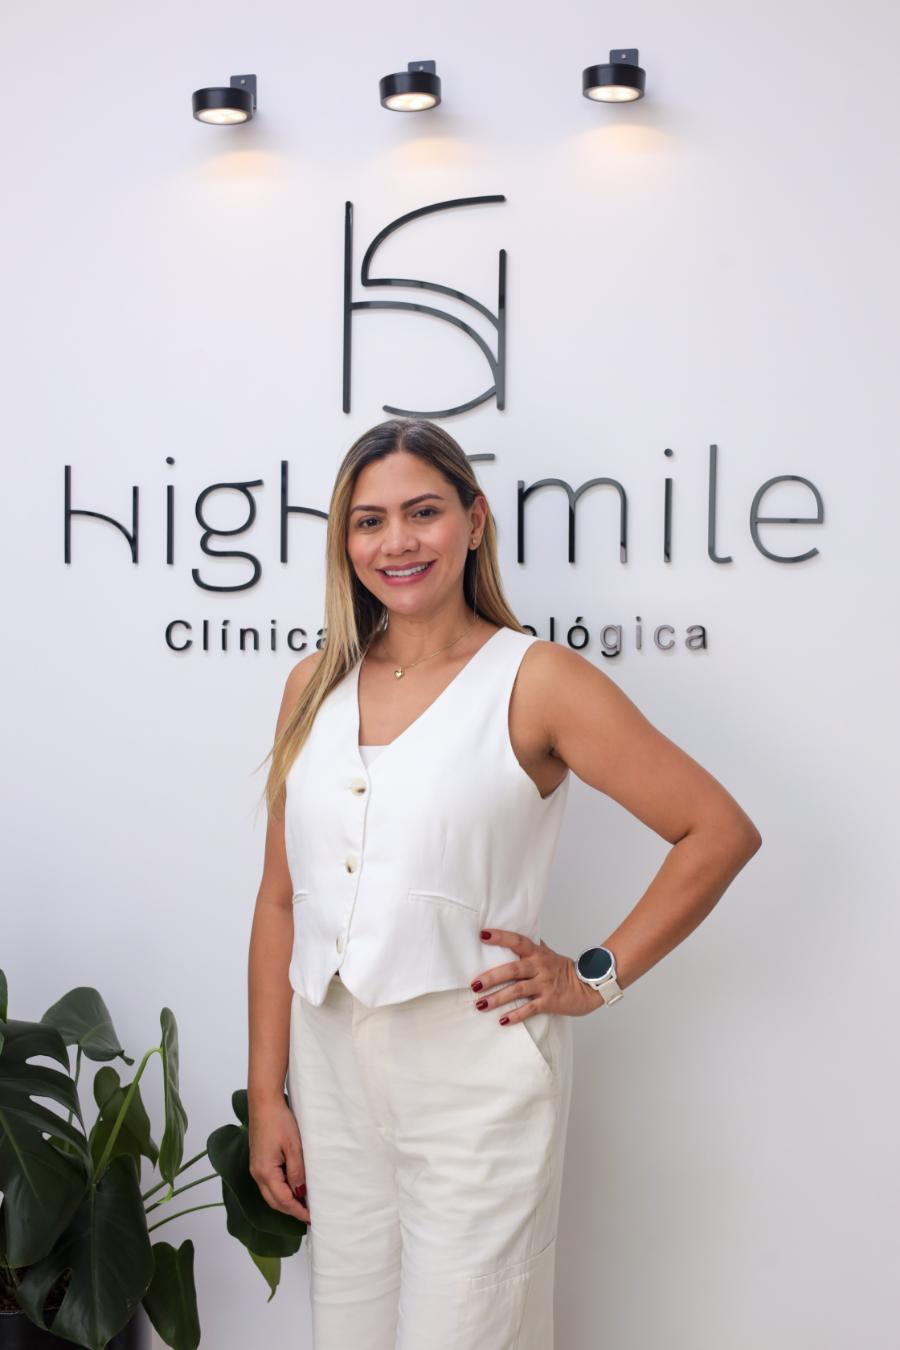
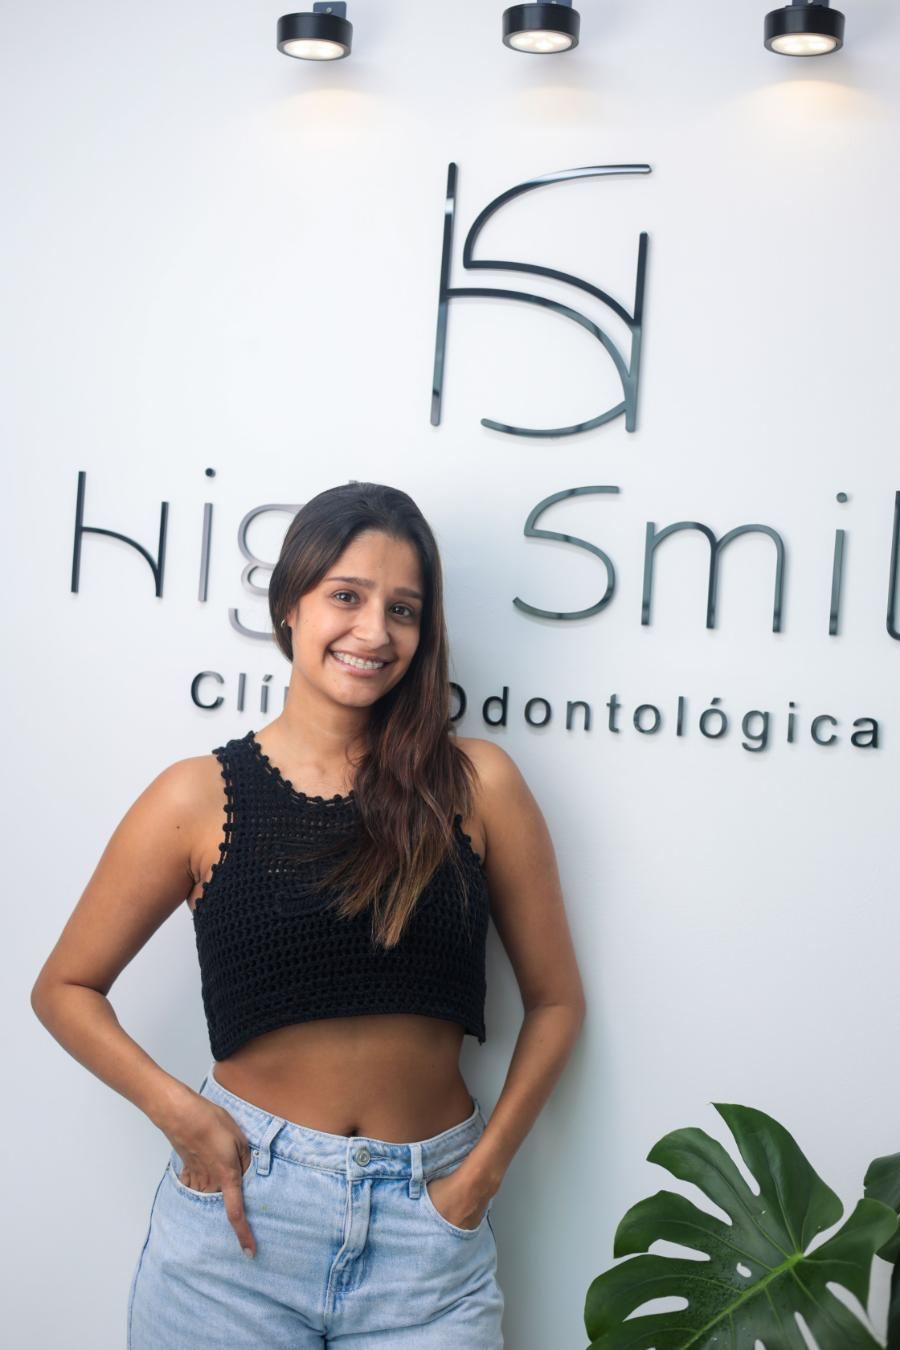
Usa fotografías del material de la clínica en los cuatro perfiles del equipo
La versión es una maqueta para presentación interna, así que los perfiles de
la Dra. Camila Herrera Lozano y de Laura Marcela Caicedo pasan de retratos
ilustrados a fotografías del material entregado (equipo-4 y equipo-5).

- Esas dos fotos salen del carrusel de pacientes para que nadie aparezca a la
  vez como paciente y como integrante del equipo; el carrusel queda con dos
  fotos y pasa a formato ancho para llenar la fila.
- Se retiran los dos retratos SVG y su estilo, que ya no se usan.
- El README advierte que los nombres son de ejemplo y que hay que reemplazar
  nombres y fotos por los reales antes de publicar el sitio al público.

Claude-Session: https://claude.ai/code/session_01EaLXk9LYvqoBJsK82ZMxKw

diff --git a/high-smile/assets/js/i18n.js b/high-smile/assets/js/i18n.js
@@ -81,7 +81,7 @@
  "equipo.2.nombre": "Dr. Mateo Restrepo Salazar",
  "equipo.2.rol": "Cirugía oral, maxilofacial e implantología",
  "equipo.2.texto": "Realiza las cirugías y la colocación de implantes, con planificación previa y control posoperatorio de cada paciente.",
- "equipo.3.foto": "Retrato ilustrado de la Dra. Camila Herrera Lozano",
+ "equipo.3.foto": "Dra. Camila Herrera Lozano, odontóloga de High Smile",
  "equipo.3.nombre": "Dra. Camila Herrera Lozano",
  "equipo.3.rol": "Ortodoncia y odontología general",
  "equipo.3.texto": "Lleva los tratamientos de ortodoncia y los controles preventivos, con seguimiento mes a mes del avance.",
@@ -282,9 +282,7 @@
  "foto.caso.3": "Antes y después de una rehabilitación estética",
  "foto.paciente": "Paciente de High Smile",
  "foto.paciente.1": "Paciente de High Smile en la clínica",
- "foto.paciente.2": "Paciente de High Smile después de su tratamiento",
- "foto.paciente.3": "Paciente de High Smile en la sala de espera",
- "foto.paciente.4": "Sonrisa natural después del tratamiento",
+ "foto.paciente.2": "Sonrisa natural después del tratamiento",
  "priv.5.h": "Las fotos que eliges para una valoración a distancia no se suben a ningún servidor: se previsualizan en tu dispositivo y las adjuntas tú mismo al mensaje de WhatsApp o de correo.",
  "equipo.1.anios": "12 años de experiencia",
  "equipo.2.anios": "9 años de experiencia",
@@ -297,7 +295,7 @@
  "foto.cali.1": "El monumento a Cristo Rey sobre la ciudad de Cali",
  "foto.cali.2": "La Torre de Cali iluminada al anochecer",
  "foto.cali.3": "Un cholado caleño con frutas y hielo raspado",
- "equipo.4.foto": "Retrato ilustrado de Laura Marcela Caicedo"
+ "equipo.4.foto": "Laura Marcela Caicedo, coordinación de pacientes"
 },
     en: {
  "meta.inicio.titulo": "High Smile | Dental Clinic in Cali · High function and aesthetics",
@@ -368,7 +366,7 @@
  "equipo.2.nombre": "Dr Mateo Restrepo Salazar",
  "equipo.2.rol": "Oral and maxillofacial surgery, implantology",
  "equipo.2.texto": "Performs the surgery and places the implants, with prior planning and post-operative follow-up for every patient.",
- "equipo.3.foto": "Illustrated portrait of Dr Camila Herrera Lozano",
+ "equipo.3.foto": "Dr Camila Herrera Lozano, High Smile dentist",
  "equipo.3.nombre": "Dr Camila Herrera Lozano",
  "equipo.3.rol": "Orthodontics and general dentistry",
  "equipo.3.texto": "Runs the orthodontic treatments and preventive check-ups, tracking progress month by month.",
@@ -569,9 +567,7 @@
  "foto.caso.3": "Before and after an aesthetic rehabilitation",
  "foto.paciente": "A High Smile patient",
  "foto.paciente.1": "A High Smile patient at the clinic",
- "foto.paciente.2": "A High Smile patient after treatment",
- "foto.paciente.3": "A High Smile patient in the waiting room",
- "foto.paciente.4": "A natural smile after treatment",
+ "foto.paciente.2": "A natural smile after treatment",
  "priv.5.h": "The photos you choose for a remote consultation are not uploaded to any server: they are previewed on your device and you attach them yourself to the WhatsApp or email message.",
  "equipo.1.anios": "12 years of experience",
  "equipo.2.anios": "9 years of experience",
@@ -584,7 +580,7 @@
  "foto.cali.1": "The Cristo Rey monument above the city of Cali",
  "foto.cali.2": "The Torre de Cali lit up at dusk",
  "foto.cali.3": "A cholado from Cali with fruit and shaved ice",
- "equipo.4.foto": "Illustrated portrait of Laura Marcela Caicedo"
+ "equipo.4.foto": "Laura Marcela Caicedo, patient care"
 }
   };
 

diff --git a/high-smile/index.html b/high-smile/index.html
@@ -315,7 +315,7 @@
           </p>
         </div>
 
-        <div class="carrusel revelar" data-carrusel="paciente" data-total="12">
+        <div class="carrusel carrusel--ancho revelar" data-carrusel="paciente" data-total="12">
           <div class="carrusel__pista" tabindex="0" role="region" aria-label="Pacientes de High Smile"></div>
           <div class="carrusel__controles">
             <button class="carrusel__boton" type="button" data-ir="-1">
@@ -370,8 +370,8 @@
           </article>
 
           <article class="perfil revelar">
-            <div class="perfil__foto perfil__foto--ilustracion">
-              <img src="assets/img/ilustraciones/retrato-1.svg?v=7" data-i18n-alt="equipo.3.foto" alt="Retrato ilustrado de la Dra. Camila Herrera Lozano" width="120" height="150" loading="lazy" />
+            <div class="perfil__foto marco" data-foto="fotos/equipo-4">
+              <div class="marco__vacio"><svg aria-hidden="true"><use href="#i-imagen"></use></svg><span data-i18n="equipo.3.foto">Dra. Camila Herrera Lozano, odontóloga de High Smile</span></div>
             </div>
             <h3 data-i18n="equipo.3.nombre">Dra. Camila Herrera Lozano</h3>
             <p class="perfil__rol" data-i18n="equipo.3.rol">Ortodoncia y odontología general</p>
@@ -380,8 +380,8 @@
           </article>
 
           <article class="perfil revelar">
-            <div class="perfil__foto perfil__foto--ilustracion">
-              <img src="assets/img/ilustraciones/retrato-2.svg?v=7" data-i18n-alt="equipo.4.foto" alt="Retrato ilustrado de Laura Marcela Caicedo" width="120" height="150" loading="lazy" />
+            <div class="perfil__foto marco" data-foto="fotos/equipo-5">
+              <div class="marco__vacio"><svg aria-hidden="true"><use href="#i-imagen"></use></svg><span data-i18n="equipo.4.foto">Laura Marcela Caicedo, coordinación de pacientes</span></div>
             </div>
             <h3 data-i18n="equipo.4.nombre">Laura Marcela Caicedo</h3>
             <p class="perfil__rol" data-i18n="equipo.4.rol">Coordinación de pacientes y turismo dental</p>

diff --git a/high-smile/assets/css/estilos.css b/high-smile/assets/css/estilos.css
@@ -454,11 +454,7 @@ a:hover { text-decoration-color: var(--blanco); }
   color: var(--texto-suave); margin-bottom: .3rem;
 }
 .perfil__anios { font-size: .82rem; color: var(--gris); margin-bottom: .9rem; }
-.perfil__foto--ilustracion {
-  aspect-ratio: 4 / 5; border: 1px solid var(--borde); background: var(--superficie);
-  display: grid; place-items: center; margin-bottom: 1.4rem;
-}
-.perfil__foto--ilustracion img { width: 72%; height: auto; opacity: .85; }
+
 .perfil p { color: var(--texto-suave); font-size: .93rem; }
 
 /* ---------- Turismo dental ---------- */

diff --git a/high-smile/assets/js/app.js b/high-smile/assets/js/app.js
@@ -127,7 +127,7 @@
   /* Los navegadores guardan las imágenes en caché por su dirección. Si se
      reemplaza una foto conservando el nombre, hay que subir este número para
      que todo el mundo vea la nueva y no la que tenía guardada. */
-  const VERSION_FOTOS = '6';
+  const VERSION_FOTOS = '7';
 
   const cargarImagen = (nombre, alExistir, alFaltar) => {
     const probar = (indice) => {

diff --git a/high-smile/README.md b/high-smile/README.md
@@ -4,6 +4,11 @@ Sitio web en **español e inglés** para High Smile Clínica Odontológica, en S
 Portada horizontal a pantalla completa, paleta **negro dominante, blanco y gris**, y el
 logotipo oficial de la clínica.
 
+> **Versión de muestra para presentación interna.** Los cuatro perfiles del equipo usan
+> nombres inventados sobre fotografías del material de la clínica. Antes de publicar el sitio
+> al público hay que reemplazarlos por los nombres, cargos y fotografías reales de cada
+> integrante, con su autorización.
+
 ---
 
 ## 1. Datos de la clínica usados en el sitio
@@ -33,7 +38,7 @@ logotipo oficial de la clínica.
 | Reseña clínica | Quiénes son, método de trabajo y carrusel de fotos de la clínica |
 | Casos de éxito | Carrusel de antes y después |
 | Antes y después | Carrusel con los pacientes que terminaron su tratamiento |
-| Nuestro equipo | Cuatro perfiles con foto o retrato ilustrado, especialidad y años de experiencia |
+| Nuestro equipo | Cuatro perfiles con fotografía, especialidad y años de experiencia |
 | Turismo dental | Por qué tratarse en Cali, cómo se organiza el viaje y qué ver en la ciudad |
 | Preguntas frecuentes | Agendamiento, provisionales y definitivos, tiempos de entrega, cuidados y miedo al odontólogo |
 | Contacto | Canales, mapa de Google cargado directamente y envío de fotos para valoración a distancia |
@@ -56,7 +61,7 @@ Además: `agenda.html` (formulario de agendamiento en tres pasos) y `privacidad.
 | `assets/js/agenda.js` | Formulario por pasos con validaciones |
 | `assets/img/logo-*.png` | Logotipos oficiales (horizontal blanco y negro, vertical blanco) |
 | `assets/img/fotos/` | Fotografías de la clínica · ver `LEEME.md` dentro de la carpeta |
-| `assets/img/ilustraciones/` | Dibujos SVG: los ocho servicios y dos retratos del equipo |
+| `assets/img/ilustraciones/` | Dibujos SVG de los ocho servicios |
 | `_headers` | Cabeceras de seguridad para hostings que las permiten |
 
 Sin frameworks, sin `npm install`, sin dependencias externas: HTML, CSS y JavaScript puro.
@@ -79,34 +84,38 @@ que traían y ajustadas a 900 × 675 px.
 > o por imágenes con licencia comercial. Basta con sobrescribir los archivos y subir
 > `VERSION_FOTOS`.
 
-Las ilustraciones de los ocho servicios y los dos retratos del equipo son dibujos
-vectoriales hechos para el sitio: pesan menos de 1 KB cada uno y se ven nítidos en cualquier
-pantalla.
+Las ilustraciones de los ocho servicios son dibujos vectoriales hechos para el sitio: pesan
+menos de 1 KB cada uno y se ven nítidos en cualquier pantalla.
 
 ---
 
 ## 5. Datos de ejemplo y pendientes
 
-**Equipo (datos de ejemplo).** La clínica pidió perfiles de muestra mientras llegan los
-definitivos, así que los cuatro integrantes que aparecen —nombres, especialidades y años de
-experiencia— **son inventados para esta versión de presentación**. Dos usan fotografías
-reales de la clínica y dos, retratos ilustrados. La propia sección lo advierte al pie.
+**Equipo (datos de ejemplo).** Los cuatro integrantes que aparecen —nombres, especialidades
+y años de experiencia— **son inventados para esta versión de presentación interna**, sobre
+fotografías del material que entregó la clínica. La propia sección lo advierte al pie.
+
+| Perfil (ejemplo) | Foto | Archivo |
+|---|---|---|
+| Dra. Valeria Ospina Arboleda | odontóloga frente al manifiesto | `equipo-2.jpg` |
+| Dr. Mateo Restrepo Salazar | odontólogo en el consultorio | `equipo-3.jpg` |
+| Dra. Camila Herrera Lozano | retrato frente al logo | `equipo-4.jpg` |
+| Laura Marcela Caicedo | retrato en la sala de espera | `equipo-5.jpg` |
 
 Para reemplazarlos por los reales:
 
 1. Cambia el texto en `assets/js/i18n.js`, claves `equipo.1.*` … `equipo.4.*` (en español y
    en inglés).
-2. Copia la fotografía en `assets/img/fotos/` como `equipo-1.jpg` … `equipo-4.jpg`.
-3. En `index.html`, cambia el bloque `perfil__foto--ilustracion` por
-   `<div class="perfil__foto marco" data-foto="fotos/equipo-3">…` para que use la foto.
-4. Sube `VERSION_FOTOS` en `assets/js/app.js`.
+2. Sobrescribe la fotografía en `assets/img/fotos/` (`equipo-2.jpg` … `equipo-5.jpg`).
+3. Sube `VERSION_FOTOS` en `assets/js/app.js`.
 
 **Pendientes reales:**
 
-1. **Envío automático de las fotos del paciente.** Hoy la página prepara el mensaje y el
+1. **Nombres y fotos reales del equipo** antes de cualquier publicación al público.
+2. **Envío automático de las fotos del paciente.** Hoy la página prepara el mensaje y el
    paciente adjunta las imágenes en WhatsApp o en el correo. Para que lleguen solas a
    highsmilecali@gmail.com hace falta un servicio de formularios o un backend propio.
-2. **Textos.** La redacción es una propuesta; conviene que la clínica la revise, sobre todo
+3. **Textos.** La redacción es una propuesta; conviene que la clínica la revise, sobre todo
    la política de privacidad.
 
 ---

diff --git a/high-smile/assets/img/fotos/LEEME.md b/high-smile/assets/img/fotos/LEEME.md
@@ -10,7 +10,7 @@ Copia aquí las fotos y la página las publica sola: **no hay que tocar el códi
 | `clinica-1.jpg` … `clinica-12.jpg` | Carrusel de «Reseña clínica» |
 | `caso-1.jpg` … `caso-12.jpg` | Carrusel de «Casos de éxito» (antes y después) |
 | `paciente-1.jpg` … `paciente-12.jpg` | Carrusel de «Antes y después · pacientes» |
-| `equipo-1.jpg` … `equipo-4.jpg` | Fotos de «Nuestro equipo» |
+| `equipo-2.jpg` … `equipo-5.jpg` | Fotos de «Nuestro equipo», en ese orden |
 | `cali-1.jpg`, `cali-2.jpg`, `cali-3.jpg` | Turismo dental: Cristo Rey, Torre de Cali y cholados (horizontal 4:3) |
 
 Se aceptan `.jpg`, `.png` y `.webp`.
